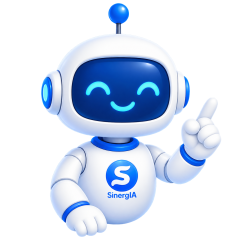
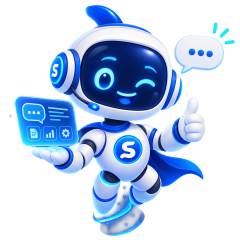
Actualizar el mascote del Asistente IA (nuevo diseño), con alto calculado dinamicamente e invalidacion de cache

diff --git a/panel/views/chat-consultas.php b/panel/views/chat-consultas.php
@@ -114,18 +114,42 @@ $sugerencias = [
 
                width/height EN EL TAG ademas del CSS: reservan el espacio antes de
                que la imagen cargue, y sin eso la tarjeta pega un salto al
-               aparecer. La imagen ES cuadrada (1254x1254 el original, 240x240 la
-               copia), asi que van iguales; el par exacto lo imprime
-               scripts/optimizar_imagen.php al generarla, que es de donde salio
-               este.
+               aparecer. EL PAR TIENE QUE LLEVAR LA PROPORCION DEL ARCHIVO, y por
+               eso no va escrito a mano: si el arte cambia por uno de otra forma,
+               un par viejo vuelve a producir el salto. Sale de getimagesize().
 
-               APUNTA A LA COPIA DE 240 px, NO AL ORIGINAL. sinergin.png pesa
-               1,16 MB y se descargaba entero para pintar algo de 112 px. El
-               original se queda en el repositorio como FUENTE de cualquier tamaño
-               futuro; lo que se sirve es la copia. 240 = el doble del tamaño de
+               APUNTA A LA COPIA DE 240 px, NO AL ORIGINAL. sinergin.png pesa mas
+               de un megabyte y se descargaba entero para pintar algo de 112 px.
+               El original se queda en el repositorio como FUENTE de cualquier
+               tamaño futuro; lo que se sirve es la copia, que genera
+               scripts/optimizar_imagen.php. 240 = el doble del tamaño de
                despliegue, para que no se vea borroso en pantallas de densidad 2x. */
+
+            $mascotaRuta = __DIR__ . '/../public/img/sinergin-240.png';
+
+            // ?v= CON LA FECHA DEL ARCHIVO. El nombre no cambia cuando se cambia
+            // el arte, asi que sin esto un navegador que ya tenga guardada la
+            // copia anterior sigue mostrando el mascote viejo despues del
+            // despliegue. Mismo criterio que /css/style.css en partials/header.php
+            // y que /img/fondo.jpg en login.php.
+            $mascotaVersion = @filemtime($mascotaRuta);
+            $mascotaSrc     = '/img/sinergin-240.png'
+                . ($mascotaVersion ? '?v=' . $mascotaVersion : '');
+
+            // El alto se calcula desde la proporcion real para el ancho de
+            // despliegue. Si el archivo no se puede leer se omiten los dos
+            // atributos: sin ellos hay salto al cargar, pero con un par inventado
+            // el salto seria peor.
+            $mascotaTam = @getimagesize($mascotaRuta);
+            $mascotaAtr = '';
+            if (is_array($mascotaTam) && $mascotaTam[0] > 0) {
+                $mascotaAtr = sprintf(
+                    ' width="112" height="%d"',
+                    (int) round(112 * $mascotaTam[1] / $mascotaTam[0]),
+                );
+            }
             ?>
-            <img src="/img/sinergin-240.png" alt="" width="112" height="112" class="chat-bienvenida__avatar">
+            <img src="<?= htmlspecialchars($mascotaSrc, ENT_QUOTES, 'UTF-8') ?>" alt=""<?= $mascotaAtr ?> class="chat-bienvenida__avatar">
             <div>
                 <?php /* "SinergIA" resaltado, como en la referencia de marca. */ ?>
                 <h2>Hola, soy tu Asistente IA de <span class="chat-bienvenida__marca">SinergIA</span></h2>
